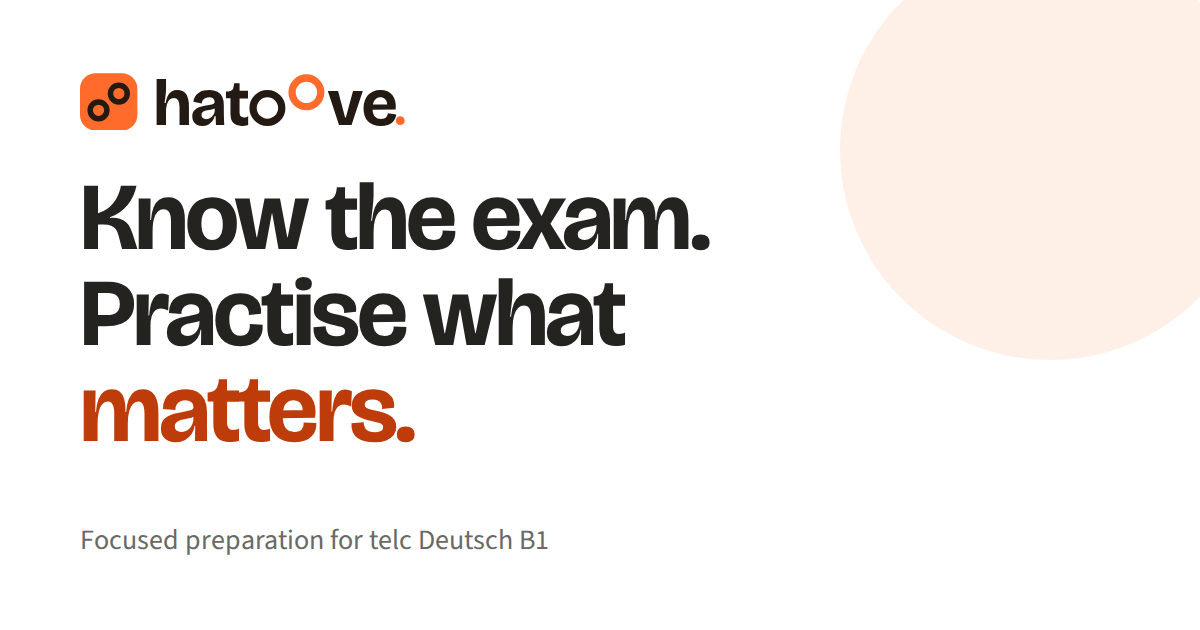
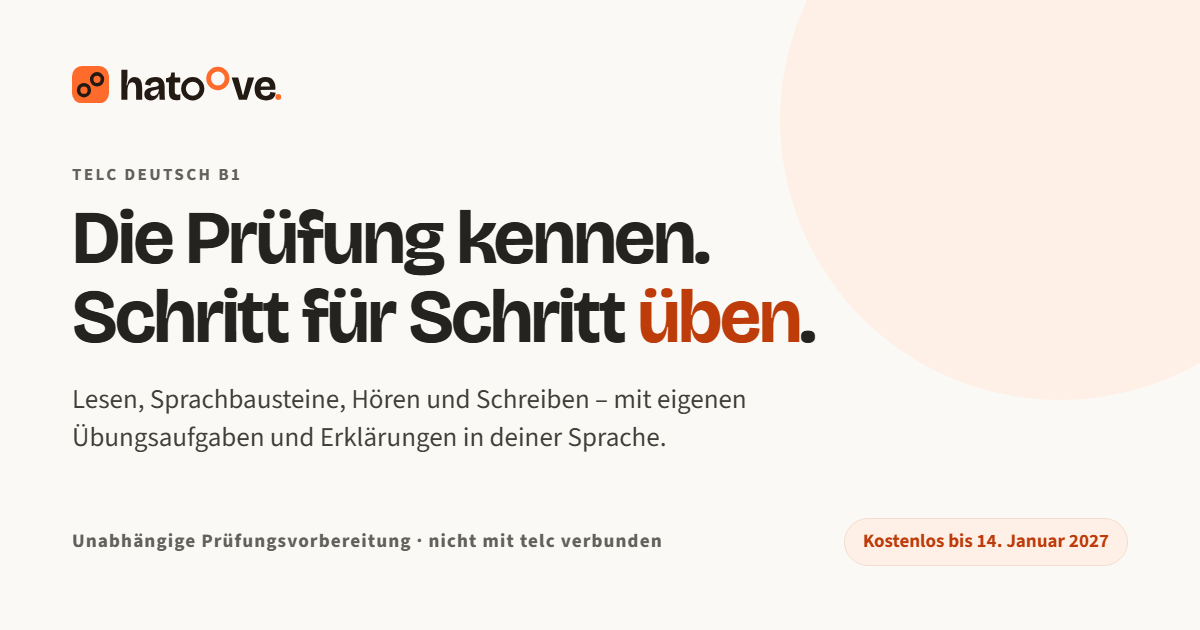
REDESIGN-01 G: the social card speaks German, like the page it advertises
The card was English (Know the exam. Practise what matters.) while the page is German-first: og:locale is de_DE and both the title and description a crawler reads are German, so the one image a social share shows contradicted the share. The new card is built from the same design tokens in a browser, so it uses the real Bricolage Grotesque and Source Sans rather than a converter's substitutes, and it carries the page's own H1 plus the current pilot wording. Dimensions verified at exactly 1200x630 and the swap verified by file hash. og:image:alt now describes the card that actually ships.

diff --git a/public/index.html b/public/index.html
@@ -14,7 +14,7 @@
 <meta property="og:image" content="https://hatoove.com/assets/og-card.png">
 <meta property="og:image:width" content="1200">
 <meta property="og:image:height" content="630">
-<meta property="og:image:alt" content="Hatoove — Deutsch B1 Schritt für Schritt üben">
+<meta property="og:image:alt" content="Hatoove – telc Deutsch B1: Die Prüfung kennen. Schritt für Schritt üben. Unabhängige Prüfungsvorbereitung, kostenlos bis 14. Januar 2027.">
 <meta name="twitter:card" content="summary_large_image">
 <meta name="twitter:title" content="Hatoove · Die Prüfung kennen. Schritt für Schritt üben.">
 <meta name="twitter:description" content="Kostenlos bis zum 14. Januar 2027. Danach sind Guthaben-Pakete nötig; ein kostenloser Test bleibt.">
